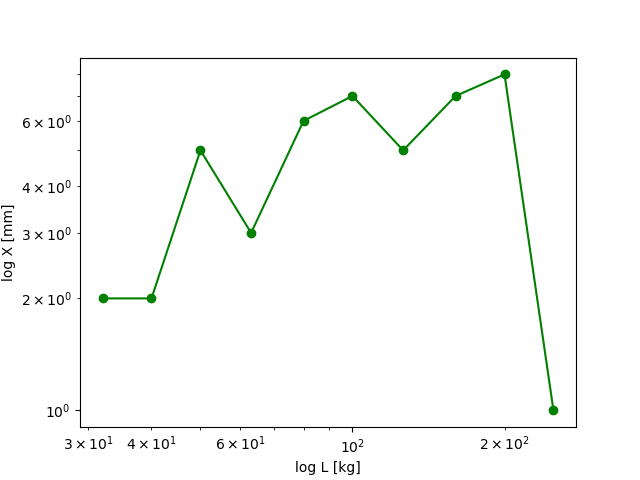
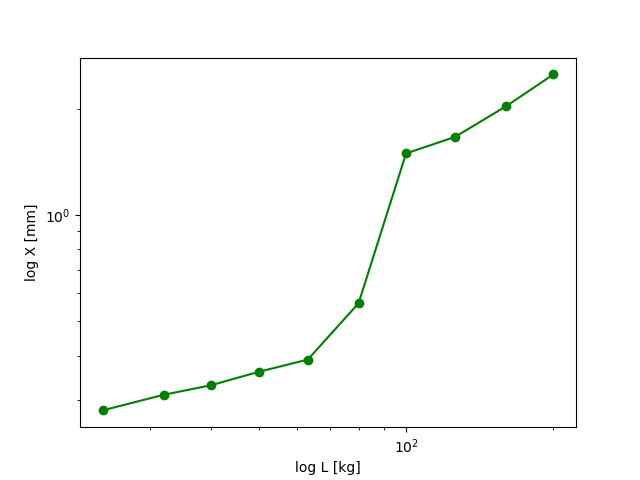
Updated with measurments from 4. Exercise
Updated X paramaters (vrednosti premera kalote)

diff --git a/Tribologija/Tribologija Lab.py b/Tribologija/Tribologija Lab.py
@@ -177,13 +177,13 @@ print(f"Alpha 100 : {alpha_100} 1/Pa")
 # 4. Vaja : Four Ball test
 
 # Doloci parametre
-X = [2,2,5,3,6,7,5,7,8,1] # Dobljene vrednosti premera kalote [mm] (10 vrednosti)
+X = [0.28, 0.31, 0.33, 0.36, 0.39, 0.563, 1.49422, 1.66548, 2.03223, 2.50171] # Dobljene vrednosti premera kalote [mm] (10 vrednosti)
 
 L = [6, 8, 10, 13, 16, 20, 24, 32, 40, 50, 63, 80, 100, 126, 160, 200, 250, 315, 400, 500, 620, 800]
 L_Dh = [0.95, 1.40, 1.88, 2.67, 3.52, 4.74, 6.05, 8.87, 11.96, 16.10, 21.86, 30.08, 40.5, 55.2, 75.8, 102.2, 137.5, 187.1, 258, 347, 462, 649]
 
-L_Dh_10 = L_Dh[7:17]
-L_10 = L[7:17]
+L_Dh_10 = L_Dh[6:16]
+L_10 = L[6:16]
 
 def izracun_LDhX(LDh: float, X: float):
     """
